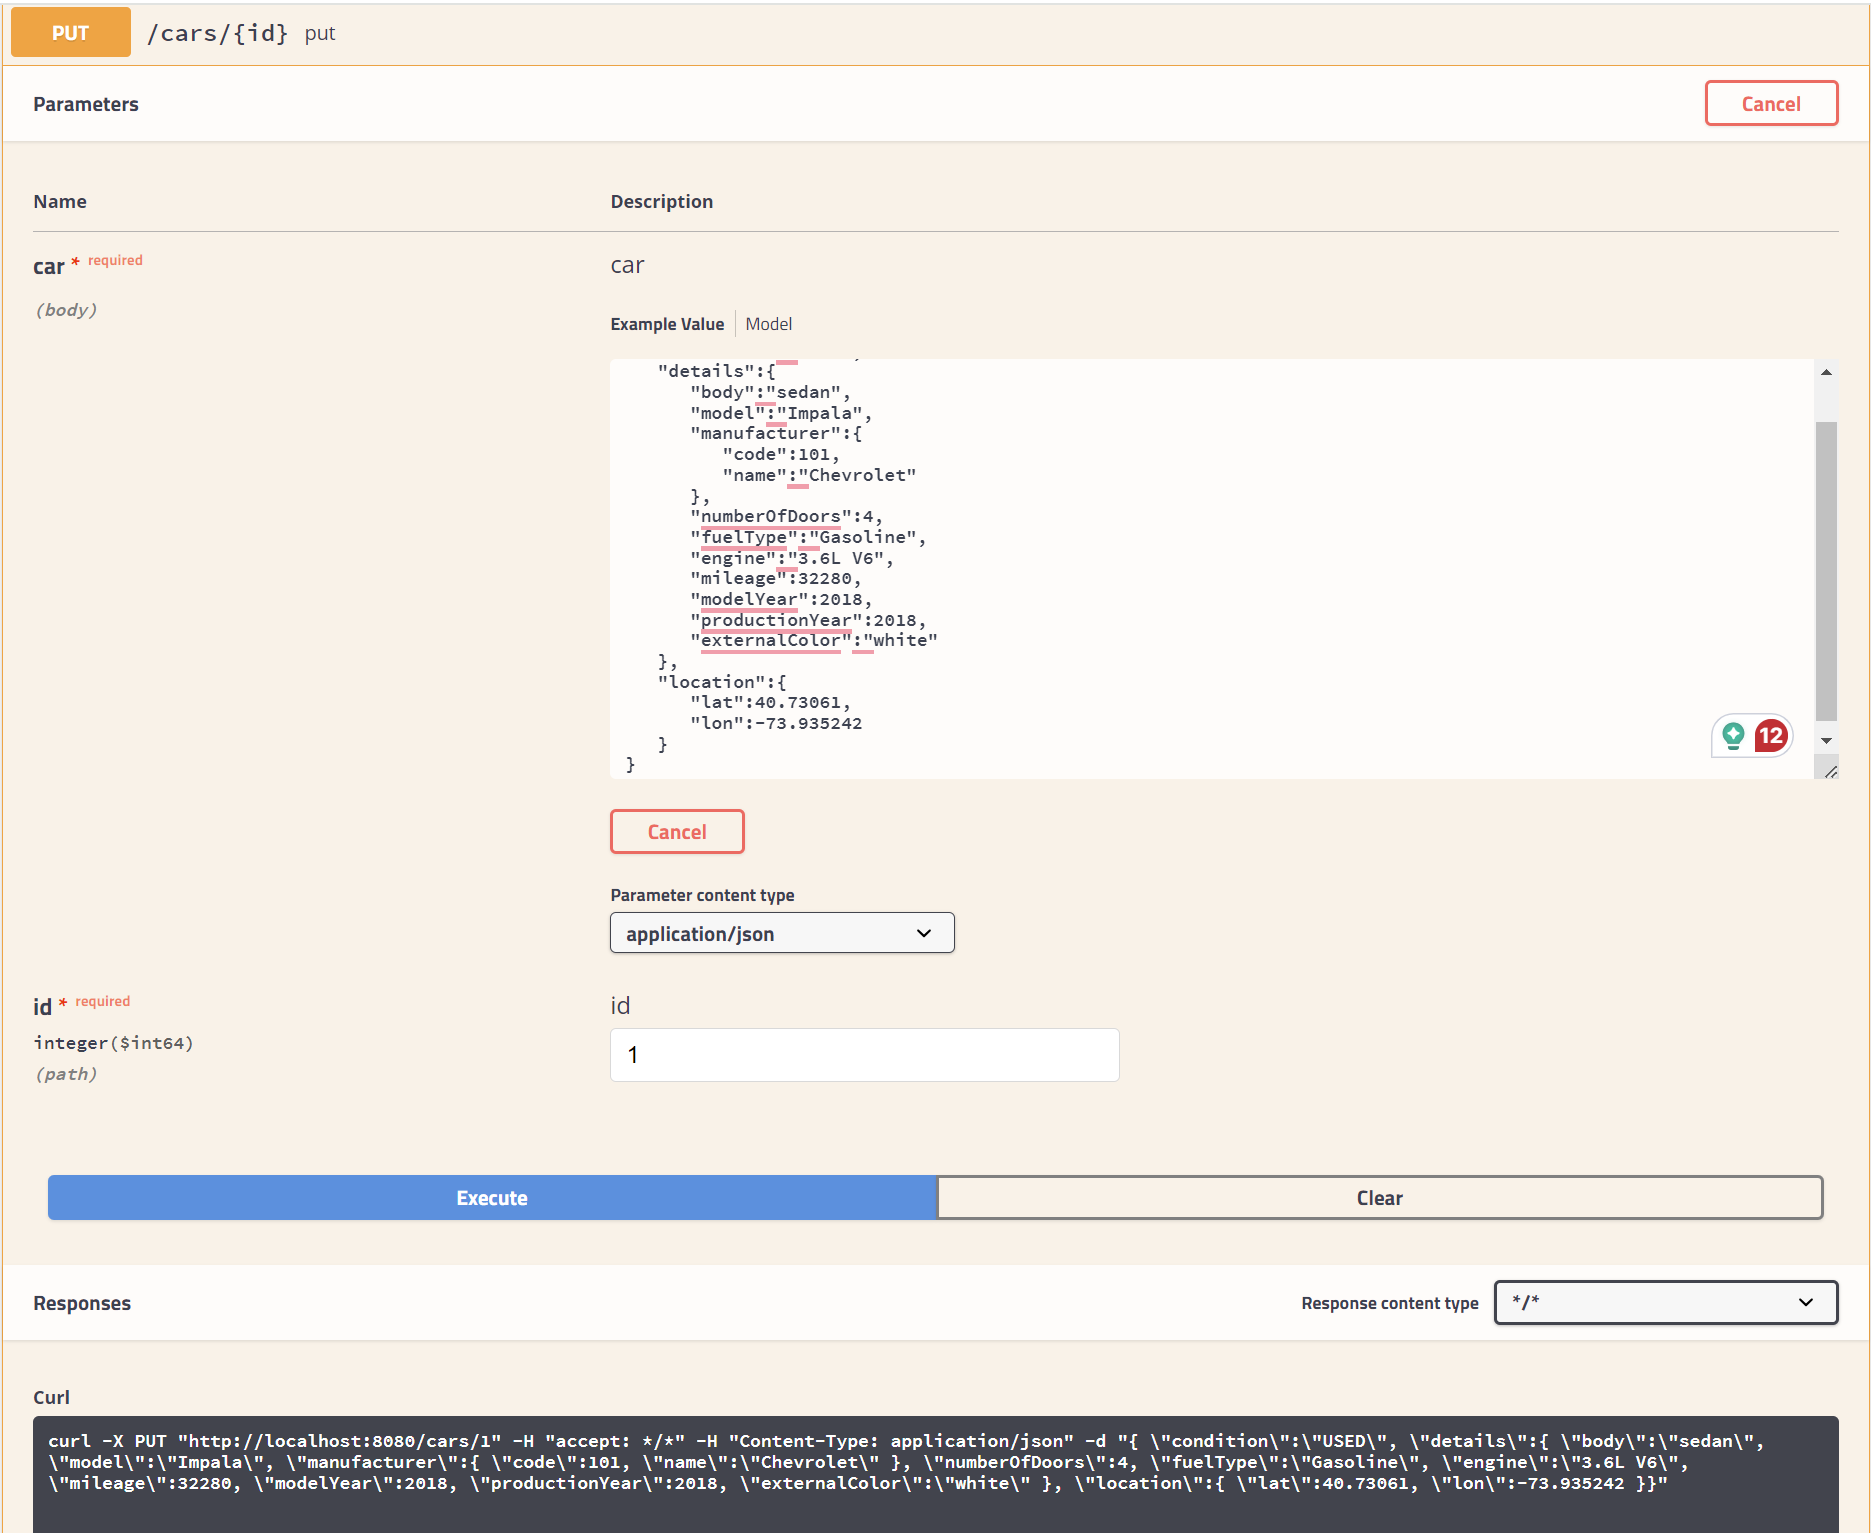
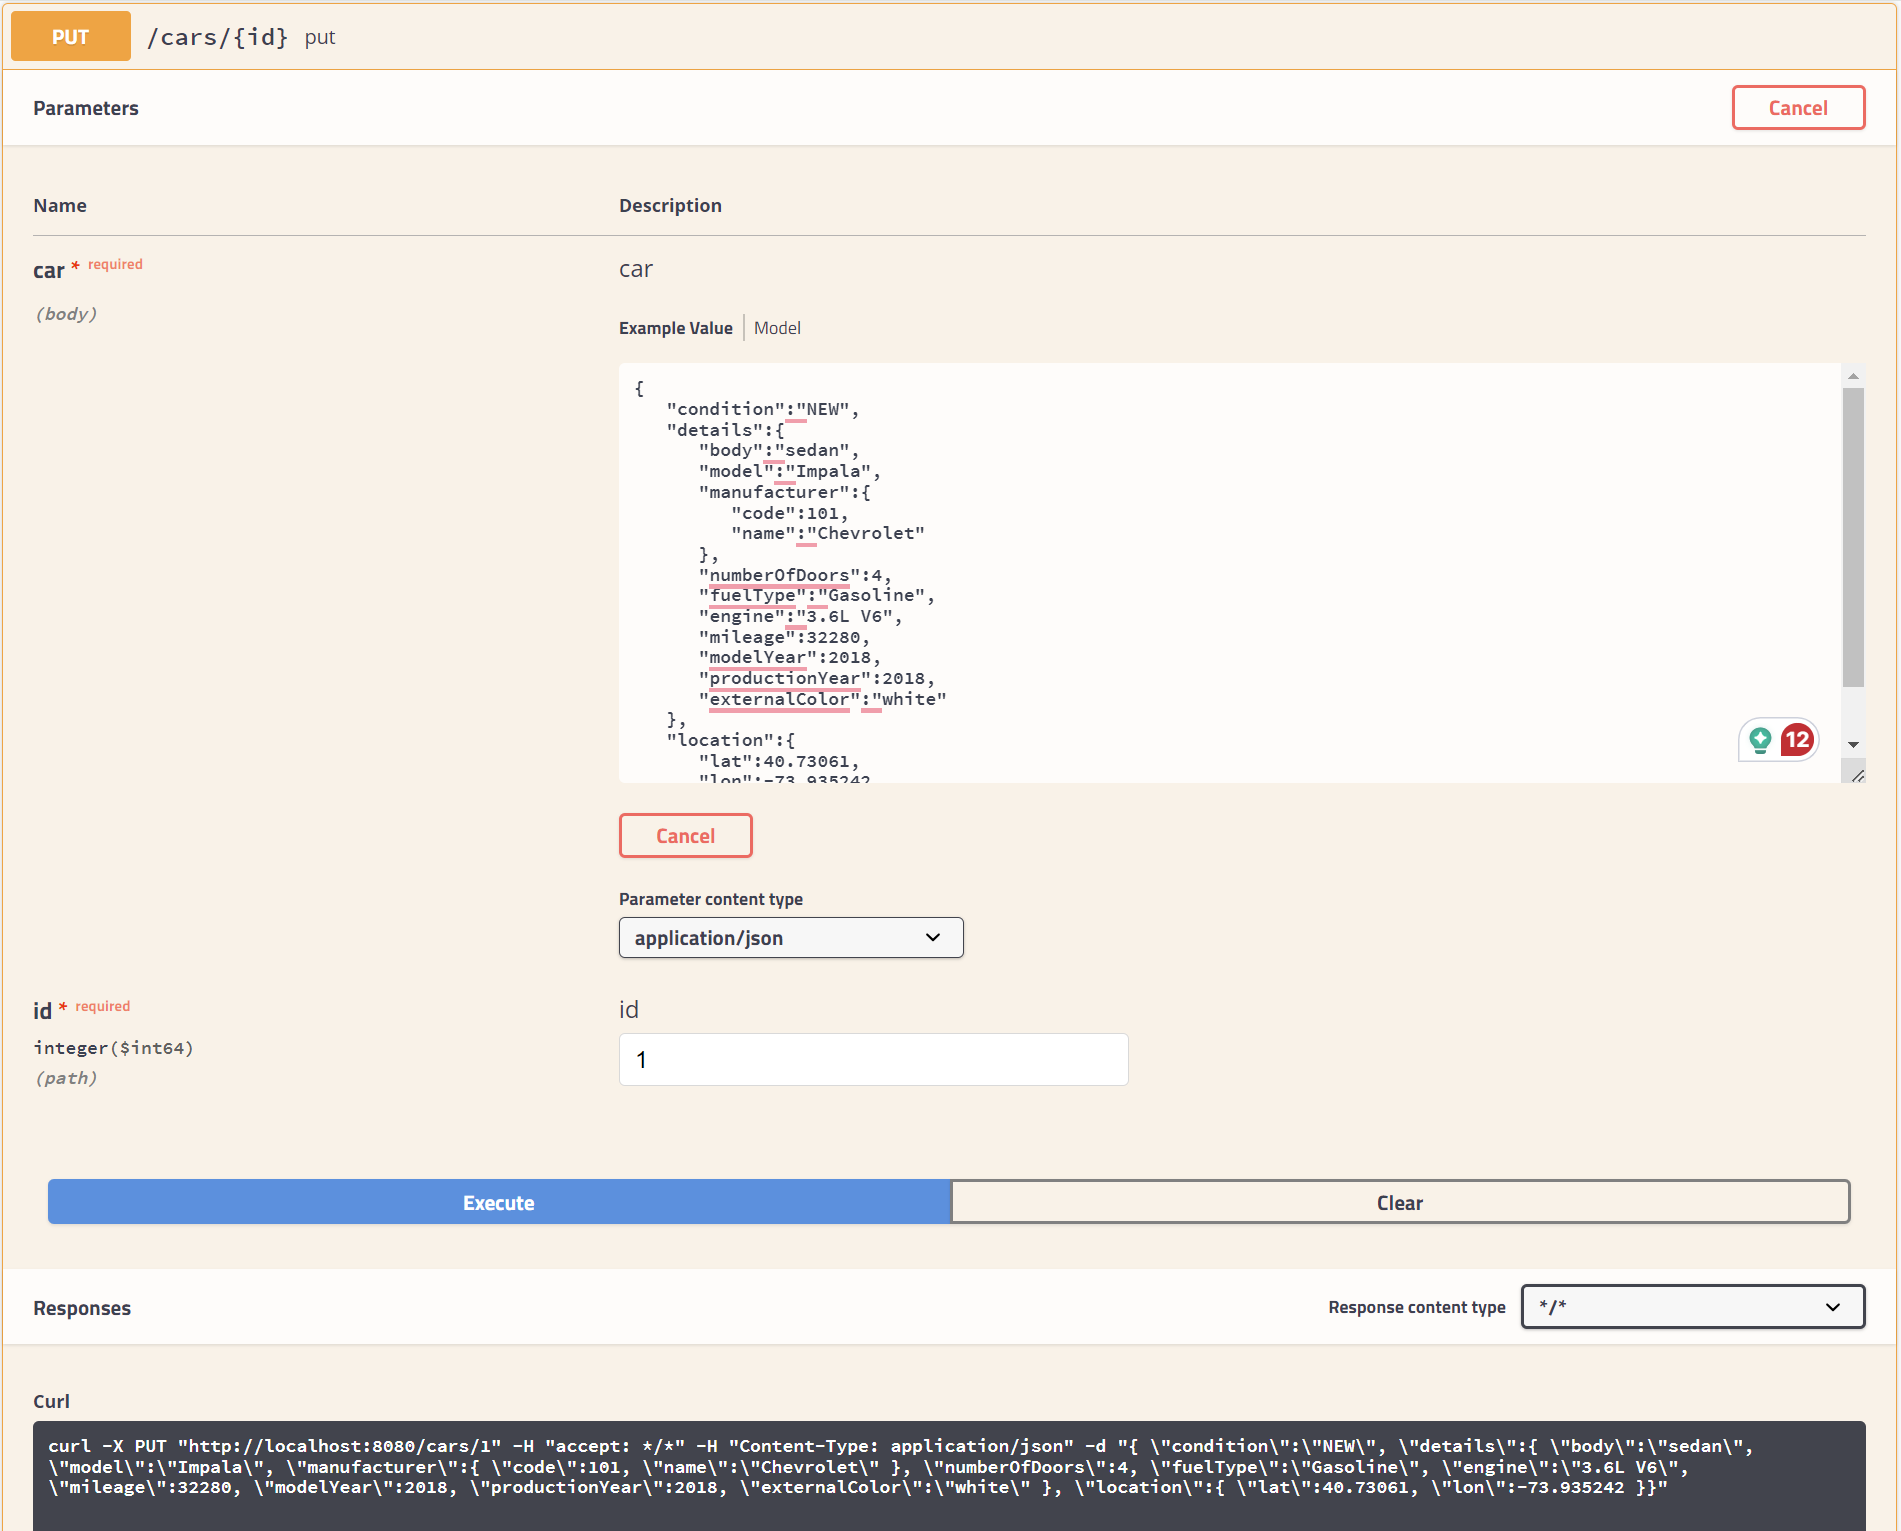
Changes in CarService to accommodated update, and also test for update

diff --git a/P02-VehiclesAPI/vehicles-api/src/test/java/com/udacity/vehicles/api/CarControllerTest.java b/P02-VehiclesAPI/vehicles-api/src/test/java/com/udacity/vehicles/api/CarControllerTest.java
@@ -6,9 +6,7 @@ import static org.mockito.ArgumentMatchers.any;
 import static org.mockito.BDDMockito.given;
 import static org.mockito.Mockito.times;
 import static org.mockito.Mockito.verify;
-import static org.springframework.test.web.servlet.request.MockMvcRequestBuilders.delete;
-import static org.springframework.test.web.servlet.request.MockMvcRequestBuilders.get;
-import static org.springframework.test.web.servlet.request.MockMvcRequestBuilders.post;
+import static org.springframework.test.web.servlet.request.MockMvcRequestBuilders.*;
 import static org.springframework.test.web.servlet.result.MockMvcResultMatchers.content;
 import static org.springframework.test.web.servlet.result.MockMvcResultMatchers.jsonPath;
 import static org.springframework.test.web.servlet.result.MockMvcResultMatchers.status;
@@ -127,6 +125,30 @@ public class CarControllerTest {
                 .andExpect(jsonPath("$.details.manufacturer.name", is("Chevrolet")))
                 .andExpect(jsonPath("$.condition", is("USED")));
         verify(carService,times(1)).findById(1L);
+    }
+
+    @Test
+    public void updateCar()throws  Exception{
+        /**
+         * Run an Update Test, change USED to NEW
+         */
+        // Get the original car and update its condition to NEW
+        Car updatedCar = getCar();
+        updatedCar.setCondition(Condition.NEW);
+
+
+        mvc.perform(put("/cars/1")
+                .content(json.write(updatedCar).getJson())// Send the updated car in the request body
+                .contentType(MediaType.APPLICATION_JSON)
+                        .accept(MediaType.APPLICATION_JSON))
+                .andExpect(status().isOk());
+
+        //Assert: Verify that the save method was called with the updated car
+        //Note: save was updated in carService.java
+        verify(carService,times(1)).save(any());
+
+
+
     }
 
     /**

diff --git a/P02-VehiclesAPI/vehicles-api/src/main/java/com/udacity/vehicles/service/CarService.java b/P02-VehiclesAPI/vehicles-api/src/main/java/com/udacity/vehicles/service/CarService.java
@@ -85,11 +85,15 @@ public class CarService {
      * @return the new/updated car is stored in the repository
      */
     public Car save(Car car) {
+        /**
+         * I Added Condition so that conditions can be updated.
+         */
         if (car.getId() != null) {
             return repository.findById(car.getId())
                     .map(carToBeUpdated -> {
                         carToBeUpdated.setDetails(car.getDetails());
                         carToBeUpdated.setLocation(car.getLocation());
+                        carToBeUpdated.setCondition(car.getCondition());
                         return repository.save(carToBeUpdated);
                     }).orElseThrow(CarNotFoundException::new);
         }

diff --git a/README.md b/README.md
@@ -654,6 +654,10 @@ class CarController {
 
 All Tests was successfull. 
 ![Vehicle Unit Test](images/5_Vehicle_UnitTesting.png)
+
+`updateCar()` method was also added, which is used for testing for Update.
+![Vehicle Unit Test Update](images/5_Vehicle_UnitTesting_UpdateCar.png)
+
 ```java
 package com.udacity.vehicles.api;
 
@@ -663,9 +667,7 @@ import static org.mockito.ArgumentMatchers.any;
 import static org.mockito.BDDMockito.given;
 import static org.mockito.Mockito.times;
 import static org.mockito.Mockito.verify;
-import static org.springframework.test.web.servlet.request.MockMvcRequestBuilders.delete;
-import static org.springframework.test.web.servlet.request.MockMvcRequestBuilders.get;
-import static org.springframework.test.web.servlet.request.MockMvcRequestBuilders.post;
+import static org.springframework.test.web.servlet.request.MockMvcRequestBuilders.*;
 import static org.springframework.test.web.servlet.result.MockMvcResultMatchers.content;
 import static org.springframework.test.web.servlet.result.MockMvcResultMatchers.jsonPath;
 import static org.springframework.test.web.servlet.result.MockMvcResultMatchers.status;
@@ -784,6 +786,30 @@ public class CarControllerTest {
                 .andExpect(jsonPath("$.details.manufacturer.name", is("Chevrolet")))
                 .andExpect(jsonPath("$.condition", is("USED")));
         verify(carService,times(1)).findById(1L);
+    }
+
+    @Test
+    public void updateCar()throws  Exception{
+        /**
+         * Run an Update Test, change USED to NEW
+         */
+        // Get the original car and update its condition to NEW
+        Car updatedCar = getCar();
+        updatedCar.setCondition(Condition.NEW);
+
+
+        mvc.perform(put("/cars/1")
+                .content(json.write(updatedCar).getJson())// Send the updated car in the request body
+                .contentType(MediaType.APPLICATION_JSON)
+                        .accept(MediaType.APPLICATION_JSON))
+                .andExpect(status().isOk());
+
+        //Assert: Verify that the save method was called with the updated car
+        //Note: save was updated in carService.java
+        verify(carService,times(1)).save(any());
+
+
+
     }
 
     /**
@@ -907,7 +933,31 @@ public class SwaggerConfig {
 
 
 * **PUT**:
+
+In CarService.java, `save(Car car)` method, I added This line `carToBeUpdated.setCondition(car.getCondition());` for this to be possible.
+
+```java
+public Car save(Car car) {
+        /**
+         * I Added Condition so that conditions can be updated.
+         */
+        if (car.getId() != null) {
+            return repository.findById(car.getId())
+                    .map(carToBeUpdated -> {
+                        carToBeUpdated.setDetails(car.getDetails());
+                        carToBeUpdated.setLocation(car.getLocation());
+                        carToBeUpdated.setCondition(car.getCondition());
+                        return repository.save(carToBeUpdated);
+                    }).orElseThrow(CarNotFoundException::new);
+        }
+
+        return repository.save(car);
+    }
+
+```
+Changed `condition` to `"NEW"`
 ![Swagger PUT ID 1](images/12_Swagger_PUT_1.png)
+Change Reflected below:
 ![Swagger PUT ID 1 part 2](images/13_Swagger_PUT_1_second.png)
 
 * **DELETE**:
